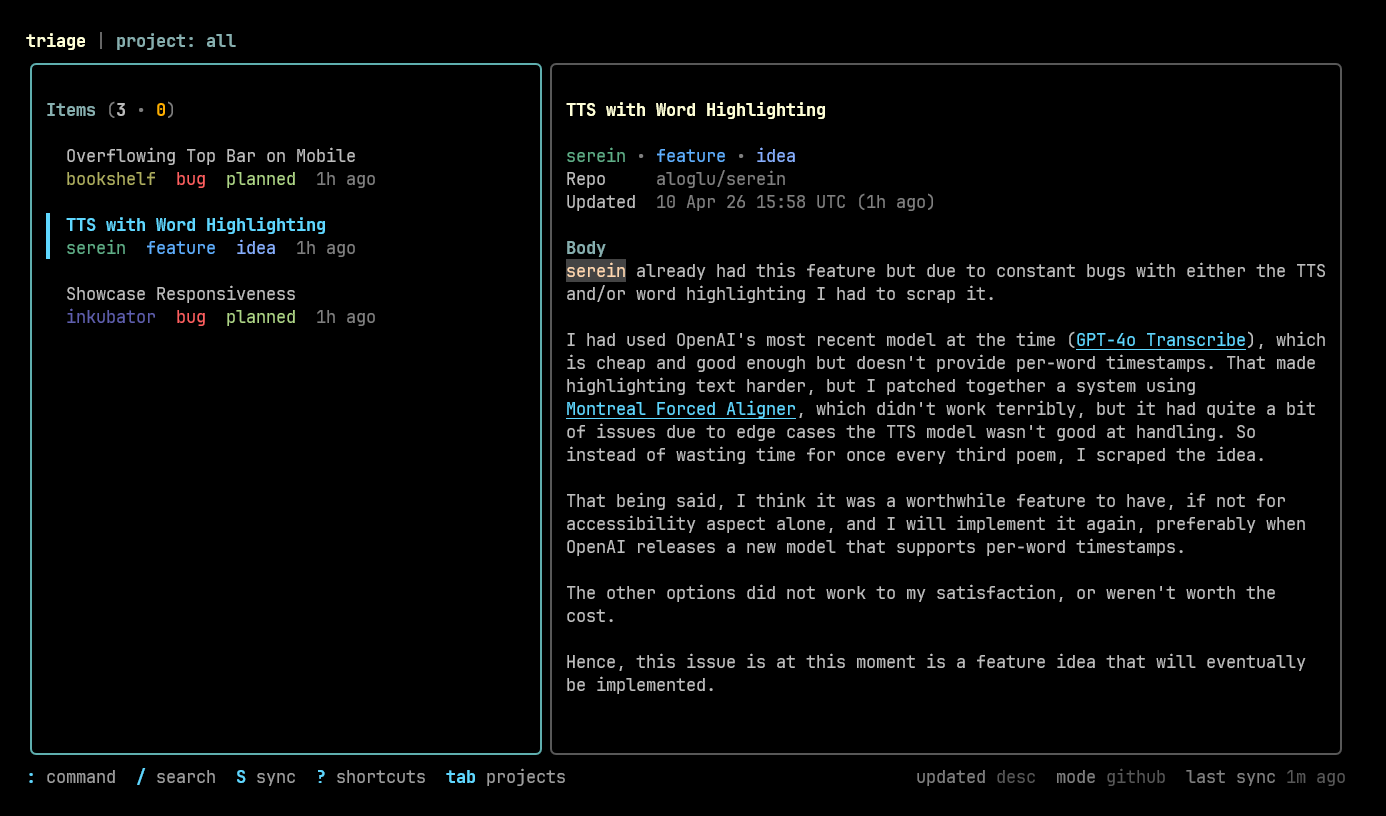
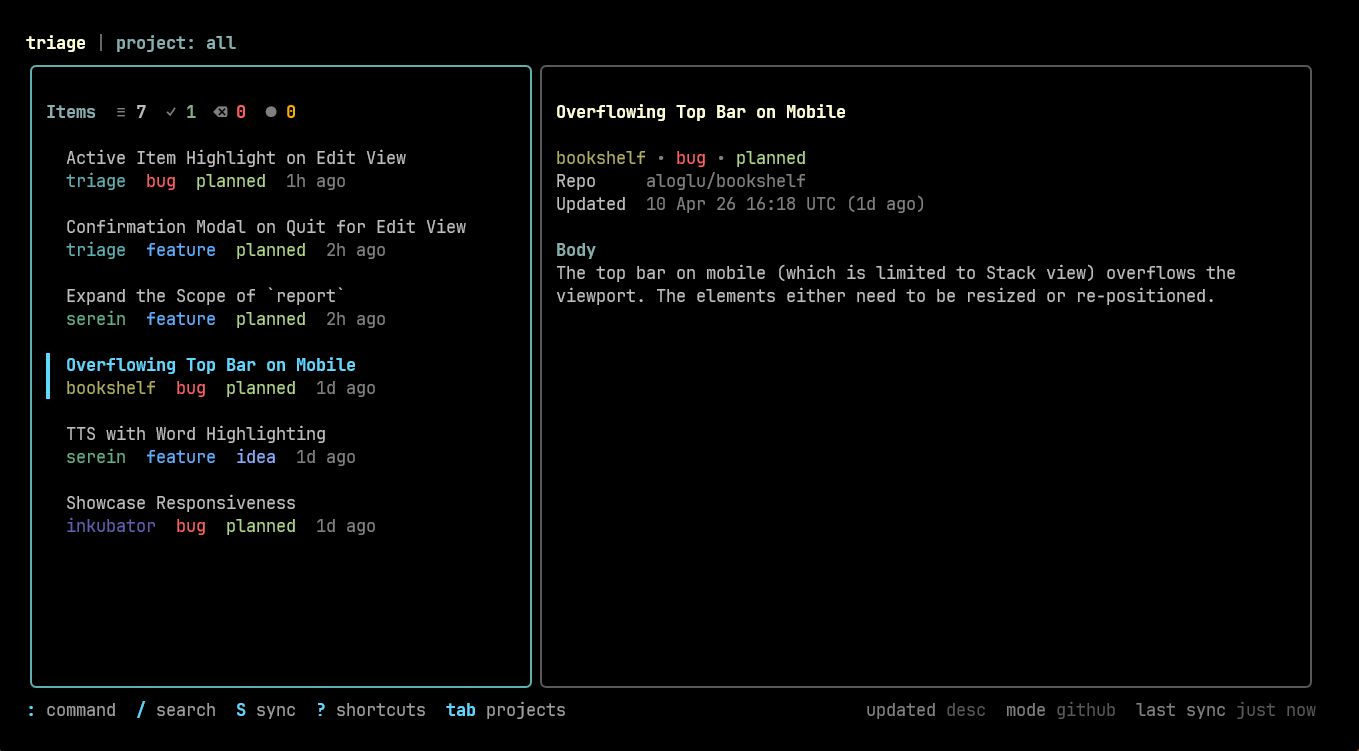
Refine sync reconciliation and item counts
Checkpoint:
- normalize auto-closed GitHub issues into triage's done stage on refresh
- queue metadata cleanup for refreshed closed issues while preserving trashed semantics
- replace the old Items count format with inline all/archive/trash/pending counters
- refresh the screenshot to match the current UI

diff --git a/internal/app/layout_test.go b/internal/app/layout_test.go
@@ -441,7 +441,7 @@ func TestCompactDensityRemovesBlankLineBetweenItems(t *testing.T) {
 	}
 }
 
-func TestItemsPaneTitleShowsItemAndPendingCounts(t *testing.T) {
+func TestItemsPaneTitleShowsAllArchiveTrashAndPendingCounts(t *testing.T) {
 	m := New().(modelUI)
 	m.width = 96
 	m.height = 24
@@ -449,15 +449,39 @@ func TestItemsPaneTitleShowsItemAndPendingCounts(t *testing.T) {
 	now := time.Date(2026, 4, 8, 12, 0, 0, 0, time.UTC)
 	m.items = []imodel.Item{
 		{Title: "First", Project: "alpha", Stage: imodel.StageActive, UpdatedAt: now, CreatedAt: now},
-		{Title: "Second", Project: "beta", Stage: imodel.StagePlanned, UpdatedAt: now, CreatedAt: now, PendingSync: imodel.SyncUpdate},
+		{Title: "Second", Project: "beta", Stage: imodel.StageDone, UpdatedAt: now, CreatedAt: now},
+		{Title: "Third", Project: "gamma", Stage: imodel.StagePlanned, Trashed: true, UpdatedAt: now, CreatedAt: now, PendingSync: imodel.SyncUpdate},
 	}
 	m.projectFilter = allProjectsLabel
 	m.rebuildFiltered()
 
 	listWidth, _ := m.layoutWidths()
 	rendered := stripANSI(m.renderItemsPane(listWidth, m.mainContentHeight()))
-	if !strings.Contains(rendered, "Items (2 • 1)") {
-		t.Fatalf("expected items title to show item and pending counts, got %q", rendered)
+	if !strings.Contains(rendered, "Items  ≡ 3  ✓ 1  ⌫ 1  ● 1") {
+		t.Fatalf("expected items title to show all/archive/trash/pending counts, got %q", rendered)
+	}
+}
+
+func TestItemsPaneTitleCountsRespectProjectFilterOnly(t *testing.T) {
+	m := New().(modelUI)
+	m.width = 96
+	m.height = 24
+	m.mode = modeNormal
+	now := time.Date(2026, 4, 8, 12, 0, 0, 0, time.UTC)
+	m.items = []imodel.Item{
+		{Title: "One", Project: "serein", Stage: imodel.StageActive, UpdatedAt: now, CreatedAt: now},
+		{Title: "Two", Project: "serein", Stage: imodel.StageDone, UpdatedAt: now, CreatedAt: now},
+		{Title: "Three", Project: "serein", Stage: imodel.StageActive, Trashed: true, UpdatedAt: now, CreatedAt: now},
+		{Title: "Four", Project: "inkubator", Stage: imodel.StageDone, UpdatedAt: now, CreatedAt: now, PendingSync: imodel.SyncUpdate},
+	}
+	m.projectFilter = "serein"
+	m.viewMode = viewActive
+	m.rebuildFiltered()
+
+	listWidth, _ := m.layoutWidths()
+	rendered := stripANSI(m.renderItemsPane(listWidth, m.mainContentHeight()))
+	if !strings.Contains(rendered, "Items  ≡ 3  ✓ 1  ⌫ 1  ● 0") {
+		t.Fatalf("expected items title counts to be scoped to current project, got %q", rendered)
 	}
 }
 

diff --git a/internal/app/model.go b/internal/app/model.go
@@ -1466,7 +1466,7 @@ func (m modelUI) captureUndo(label string) modelUI {
 		items: cloneItems(m.items),
 		label: label,
 	}
-	if itemIndex, ok := m.selectedItemIndex(); ok {
+	if itemIndex, ok := m.selectedItemIndex(); ok && itemIndex >= 0 && itemIndex < len(m.items) {
 		selected := m.items[itemIndex]
 		state.selected = &selected
 	}
@@ -1818,15 +1818,27 @@ func (m modelUI) renderItemsPane(width, height int) string {
 }
 
 func (m modelUI) renderItemsTitle() string {
-	pendingCount, _, _ := m.syncCounts()
+	allCount, archiveCount, trashCount, pendingCount := m.itemsPaneCounts()
 	return lipgloss.JoinHorizontal(
 		lipgloss.Top,
 		m.styles.subtitle.Render("Items"),
-		m.styles.muted.Render(" ("),
-		m.styles.itemCountValue.Render(fmt.Sprintf("%d", len(m.filtered))),
-		m.styles.muted.Render(" • "),
-		m.styles.itemPendingValue.Render(fmt.Sprintf("%d", pendingCount)),
-		m.styles.muted.Render(")"),
+		m.styles.muted.Render("  "),
+		m.renderItemsTitleCount("≡", allCount, m.styles.itemCountValue),
+		m.styles.muted.Render("  "),
+		m.renderItemsTitleCount("✓", archiveCount, m.styles.itemArchiveValue),
+		m.styles.muted.Render("  "),
+		m.renderItemsTitleCount("⌫", trashCount, m.styles.itemTrashValue),
+		m.styles.muted.Render("  "),
+		m.renderItemsTitleCount("●", pendingCount, m.styles.itemPendingValue),
+	)
+}
+
+func (m modelUI) renderItemsTitleCount(icon string, count int, valueStyle lipgloss.Style) string {
+	return lipgloss.JoinHorizontal(
+		lipgloss.Top,
+		m.styles.itemStatIcon.Render(icon),
+		m.styles.muted.Render(" "),
+		valueStyle.Render(fmt.Sprintf("%d", count)),
 	)
 }
 
@@ -3060,6 +3072,35 @@ func (m modelUI) syncCounts() (pending, conflicts, failed int) {
 		}
 	}
 	return pending, conflicts, failed
+}
+
+func (m modelUI) itemsPaneCounts() (all, archive, trash, pending int) {
+	for _, item := range m.items {
+		if !m.itemsPaneCountsMatchProject(item) {
+			continue
+		}
+		if item.IsLocallyPurged() {
+			pending++
+			continue
+		}
+		all++
+		if item.IsTrashed() {
+			trash++
+		} else if item.IsDone() {
+			archive++
+		}
+		if item.HasPendingSync() {
+			pending++
+		}
+	}
+	return all, archive, trash, pending
+}
+
+func (m modelUI) itemsPaneCountsMatchProject(item model.Item) bool {
+	if m.projectFilter == "" || m.projectFilter == allProjectsLabel {
+		return true
+	}
+	return item.Project == m.projectFilter
 }
 
 func (m modelUI) pendingSyncItems() []model.Item {

diff --git a/internal/githubsync/client_test.go b/internal/githubsync/client_test.go
@@ -271,6 +271,55 @@ func TestSyncRepoMarksItemsPendingWhenManagedMetadataIsMissing(t *testing.T) {
 	}
 }
 
+func TestSyncRepoMarksAutoClosedIssuePendingForMetadataNormalization(t *testing.T) {
+	now := time.Date(2026, 4, 11, 10, 0, 0, 0, time.UTC)
+	client := &Client{
+		run: func(ctx context.Context, method, endpoint string, payload any, target any) error {
+			switch {
+			case method == "GET" && endpoint == "repos/aloglu/triage-inbox/issues?state=all&per_page=100":
+				resp := target.(*[]issueResponse)
+				*resp = []issueResponse{{
+					Number:    11,
+					Title:     "Auto closed",
+					Body:      "```yaml\nproject: triage\ntype: feature\nstage: idea\n```\n\nBody\n",
+					State:     "closed",
+					CreatedAt: now,
+					UpdatedAt: now,
+					Labels: []label{
+						{Name: "triage", Color: projectLabelColor("triage")},
+						{Name: "feature", Color: managedLabelColor("feature")},
+						{Name: "idea", Color: managedLabelColor("idea")},
+					},
+					Assignees: []viewerResponse{{Login: "aloglu"}},
+				}}
+				return nil
+			case method == "GET" && endpoint == "user":
+				resp := target.(*viewerResponse)
+				*resp = viewerResponse{Login: "aloglu"}
+				return nil
+			default:
+				t.Fatalf("unexpected call: %s %s", method, endpoint)
+				return nil
+			}
+		},
+		labelSync: config.ProjectLabelAuto,
+	}
+
+	items, err := client.SyncRepo("aloglu/triage-inbox")
+	if err != nil {
+		t.Fatalf("SyncRepo() error = %v", err)
+	}
+	if len(items) != 1 {
+		t.Fatalf("len(items) = %d, want 1", len(items))
+	}
+	if items[0].Stage != model.StageDone {
+		t.Fatalf("Stage = %q, want %q", items[0].Stage, model.StageDone)
+	}
+	if items[0].PendingSync != model.SyncUpdate {
+		t.Fatalf("PendingSync = %q, want %q", items[0].PendingSync, model.SyncUpdate)
+	}
+}
+
 func TestSyncRepoLeavesItemsCleanWhenManagedMetadataMatches(t *testing.T) {
 	now := time.Date(2026, 4, 10, 9, 0, 0, 0, time.UTC)
 	client := &Client{

diff --git a/internal/githubsync/frontmatter_test.go b/internal/githubsync/frontmatter_test.go
@@ -249,6 +249,59 @@ func TestIssueToItemMarksTrashedFromLabel(t *testing.T) {
 	}
 }
 
+func TestIssueToItemNormalizesClosedIssueToDoneStage(t *testing.T) {
+	now := time.Now().UTC()
+	item, err := issueToItem("aloglu/triage-inbox", issueResponse{
+		Number:    14,
+		Title:     "Closed elsewhere",
+		Body:      "```yaml\nproject: triage\ntype: bug\nstage: active\n```\n\nBody text\n",
+		State:     "closed",
+		CreatedAt: now,
+		UpdatedAt: now,
+		Labels: []label{
+			{Name: "triage"},
+			{Name: "bug"},
+			{Name: "active"},
+		},
+	})
+	if err != nil {
+		t.Fatalf("issueToItem() error = %v", err)
+	}
+	if item.Stage != model.StageDone {
+		t.Fatalf("stage = %q, want %q", item.Stage, model.StageDone)
+	}
+	if item.Trashed {
+		t.Fatal("expected non-trashed closed issue")
+	}
+}
+
+func TestIssueToItemKeepsClosedTrashedIssueTrashed(t *testing.T) {
+	now := time.Now().UTC()
+	item, err := issueToItem("aloglu/triage-inbox", issueResponse{
+		Number:    15,
+		Title:     "Closed trash",
+		Body:      "```yaml\nproject: triage\ntype: chore\nstage: active\n```\n\nBody text\n",
+		State:     "closed",
+		CreatedAt: now,
+		UpdatedAt: now,
+		Labels: []label{
+			{Name: "triage"},
+			{Name: "chore"},
+			{Name: "active"},
+			{Name: "trashed"},
+		},
+	})
+	if err != nil {
+		t.Fatalf("issueToItem() error = %v", err)
+	}
+	if !item.Trashed {
+		t.Fatal("expected trashed item")
+	}
+	if item.Stage != model.StageActive {
+		t.Fatalf("stage = %q, want %q", item.Stage, model.StageActive)
+	}
+}
+
 func TestCanonicalIssueBodyMatchesIgnoresTrailingNewlineOnly(t *testing.T) {
 	item := model.Item{
 		Project: "triage",

diff --git a/internal/app/styles.go b/internal/app/styles.go
@@ -47,6 +47,9 @@ type styles struct {
 	shortcutKey             lipgloss.Style
 	shortcutDesc            lipgloss.Style
 	itemCountValue          lipgloss.Style
+	itemStatIcon            lipgloss.Style
+	itemArchiveValue        lipgloss.Style
+	itemTrashValue          lipgloss.Style
 	itemPendingValue        lipgloss.Style
 	footerKey               lipgloss.Style
 	footerText              lipgloss.Style
@@ -204,6 +207,14 @@ func newStyles() styles {
 			Foreground(lipgloss.Color("247")),
 		itemCountValue: lipgloss.NewStyle().
 			Foreground(lipgloss.Color("250")).
+			Bold(true),
+		itemStatIcon: lipgloss.NewStyle().
+			Foreground(lipgloss.Color("244")),
+		itemArchiveValue: lipgloss.NewStyle().
+			Foreground(lipgloss.Color("108")).
+			Bold(true),
+		itemTrashValue: lipgloss.NewStyle().
+			Foreground(lipgloss.Color("203")).
 			Bold(true),
 		itemPendingValue: lipgloss.NewStyle().
 			Foreground(lipgloss.Color("214")).

diff --git a/internal/githubsync/client.go b/internal/githubsync/client.go
@@ -465,13 +465,17 @@ func issueToItem(repo string, response issueResponse) (model.Item, error) {
 	if err != nil {
 		return model.Item{}, fmt.Errorf("issue #%d: %w", response.Number, err)
 	}
+	trashed := hasLabel(response.labelNames(), "trashed")
+	if response.State == "closed" && !trashed {
+		stage = model.StageDone
+	}
 
 	return model.Item{
 		Title:           response.Title,
 		Project:         project,
 		Type:            itemType,
 		Stage:           stage,
-		Trashed:         hasLabel(response.labelNames(), "trashed"),
+		Trashed:         trashed,
 		Body:            body,
 		CreatedAt:       response.CreatedAt,
 		UpdatedAt:       response.UpdatedAt,
